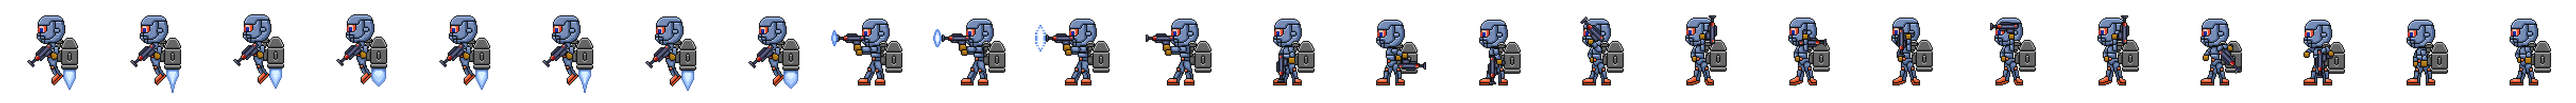
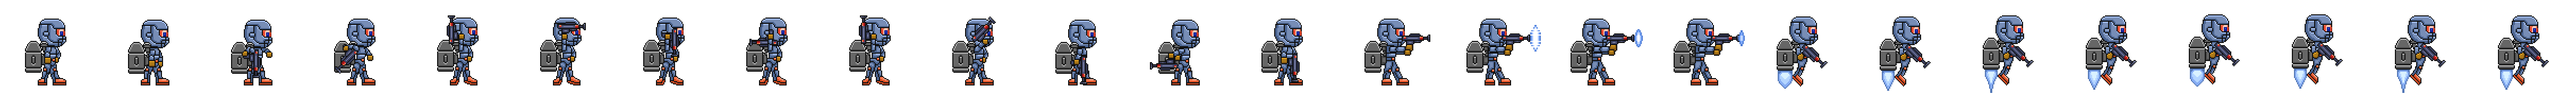
defender animation + sprites

Changed region(s): [[0.0, 0.1237, 0.9963, 0.8351]]

diff --git a/main.js b/main.js
@@ -124,6 +124,10 @@ function handleProjectiles() {
 }
 
 // defenders
+const defender1 = new Image();
+defender1.src = 'defender1.png';
+
+
 class Defender {
   constructor(x, y) {
     this.x = x;
@@ -131,9 +135,16 @@ class Defender {
     this.width = cellSize - cellGap * 2;
     this.height = cellSize - cellGap * 2;
     this.shooting = false;
+    this.shootNow = false;
     this.health = 100;
     this.projectiles = [];
     this.timer = 0;
+    this.frameX = 0;
+    this.frameY = 0;
+    this.spriteWidth = 194;
+    this.spriteHeight = 194;
+    this.minFrame = 0;
+    this.maxFrame = 16;
   }
 
   draw() {
@@ -142,18 +153,30 @@ class Defender {
     ctx.fillStyle = 'gold';
     ctx.font = '20px Orbitron';
     ctx.fillText(Math.floor(this.health), this.x + 15, this.y + 30);
+    // ctx.drawImage(defender1, sx, sy, sw, sh, dx, dy, dw, dh); // for example
+    ctx.drawImage(defender1, this.frameX * this.spriteWidth, 0, this.spriteWidth, this.spriteHeight,
+      this.x, this.y, this.width, this.height);
+
   }
 
   update() {
-    if (this.shooting) {
-      this.timer++;
-      if (this.timer % 100 === 0) {
-        projectiles.push(new Projectile(this.x + 70, this.y + 50))
-      }
-    } else {
-      this.timer = 0;
+    if (frame % 10 === 0) { // shooting speed
+      if (this.frameX < this.maxFrame) this.frameX++;
+      else this.frameX = this.minFrame;
+      if (this.frameX === 15) this.shootNow = true;
     }
+    if (this.shooting) {
+      this.minFrame = 0;
+      this.maxFrame = 15;
 
+    } else {
+      this.minFrame = 17;
+      this.maxFrame = 23;
+    }
+    if (this.shooting && this.shootNow) {
+      projectiles.push(new Projectile(this.x + 70, this.y + 35));
+      this.shootNow = false
+    }
   }
 }
 
@@ -266,8 +289,8 @@ class Enemy {
     ctx.font = '20px Orbitron';
     ctx.fillText(Math.floor(this.health), this.x + 15, this.y + 30);
     // ctx.drawImage(img, sx, sy, sw, sh, dx, dy, dw, dh); just for example
-    ctx.drawImage(this.enemyTypes, this.frameX * this.spriteWidth, 0, this.spriteWidth, this.spriteHeight ,
-                  this.x, this.y, this.width, this.height);
+    ctx.drawImage(this.enemyTypes, this.frameX * this.spriteWidth, 0, this.spriteWidth, this.spriteHeight,
+      this.x, this.y, this.width, this.height);
 
   }
 }
